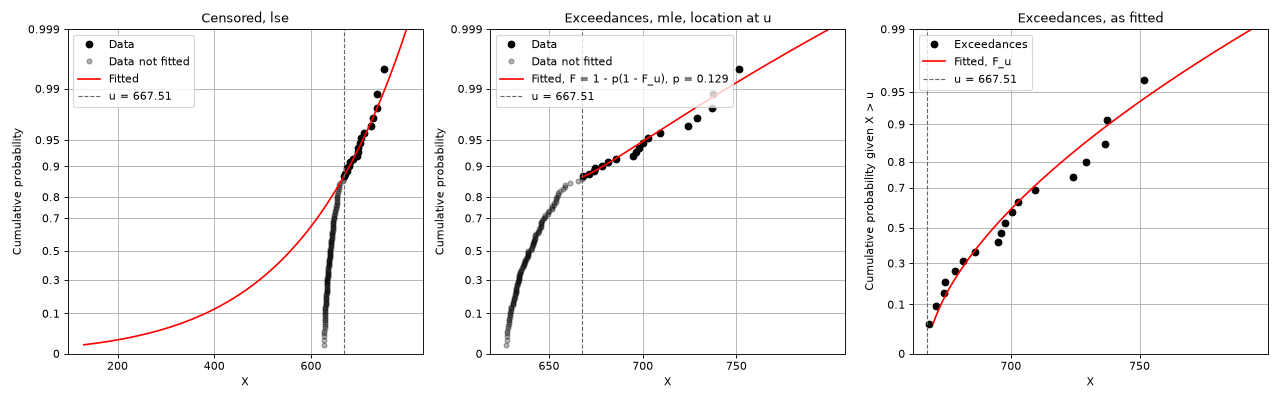
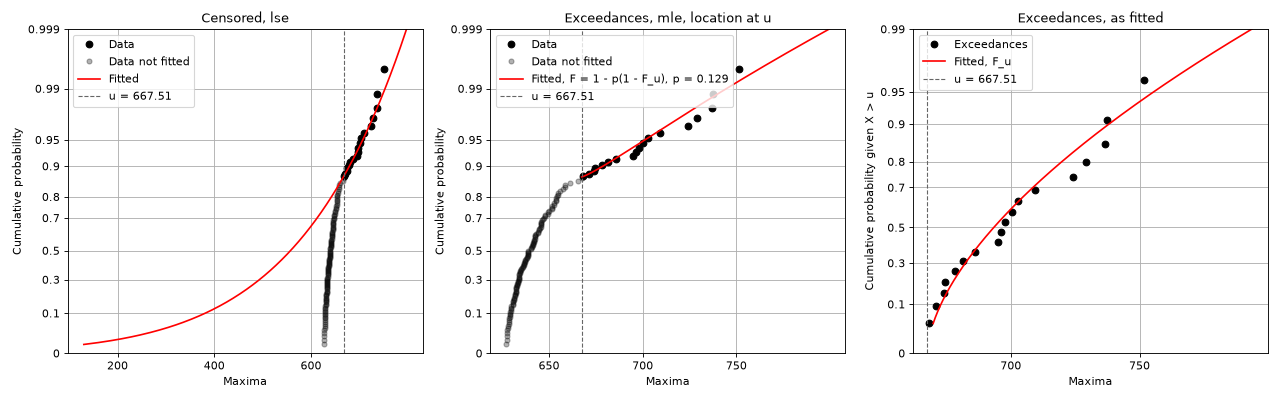
Weibull.plot: Maxima/Minima x label, fit settings as title, is_minima
The x axis is labelled Maxima, or Minima with the new is_minima=, which
draws a fit to the minima multiplied by -1 in the original units, as
TimeSeries.stats fits them. A fitted distribution has the fit settings as
title, the same description as in the GUI.

diff --git a/test/test_weibull.py b/test/test_weibull.py
@@ -10,7 +10,7 @@ from scipy.special import gamma
 
 from qats import TsDB
 from qats._validation import QatsTypeError, QatsValueError
-from qats.stats.empirical import empirical_cdf
+from qats.stats.empirical import empirical_cdf, tail_threshold
 from qats.stats.paper import probability_paper
 from qats.stats.weibull import Weibull, lse, mle, msm, plot_fit, pwm, pwm2, weibull2gumbel
 
@@ -585,8 +585,9 @@ class WeibullPlotTestCases(unittest.TestCase):
         np.testing.assert_allclose(data.get_ydata(), empirical_cdf(self.x.size, kind="mean"), rtol=1e-14)
         np.testing.assert_allclose(line.get_ydata(), w.cdf(line.get_xdata()), rtol=1e-9, atol=1e-12)
         self.assertEqual(dashed, [])
-        self.assertEqual(ax.get_xlabel(), "X")
+        self.assertEqual(ax.get_xlabel(), "Maxima")
         self.assertEqual(ax.get_ylabel(), "Cumulative probability")
+        self.assertEqual(ax.get_title(), "Weibull fit: msm, all maxima, location fitted; mean plotting positions")
 
     def test_ax(self):
         ax = self.axes()
@@ -676,6 +677,61 @@ class WeibullPlotTestCases(unittest.TestCase):
                 w.plot(ax=self.axes(), view="exceedances")
         with self.assertRaises(ValueError):
             Weibull.fit(self.x, method="msm").plot(ax=self.axes(), view="tail")
+
+    def test_title(self):
+        # the fit settings, as in the GUI
+        u = tail_threshold(self.x, 0.2)
+        for w, expected in (
+            (
+                Weibull.fit(self.x, method="lse", tail=0.2),
+                "Weibull fit: lse, the 20 % largest maxima, censored, location fitted; median plotting positions",
+            ),
+            (
+                Weibull.fit(self.x, method="mle", tail=0.2, tail_model="exceedances", loc=u),
+                "Weibull fit: mle, the 20 % largest maxima, exceedances, location at u; median plotting positions",
+            ),
+            (
+                Weibull.fit(self.x, method="mle", loc=100.0),
+                "Weibull fit: mle, all maxima, location 100; median plotting positions",
+            ),
+        ):
+            with self.subTest(expected=expected):
+                ax = w.plot(paper="rayleigh", kind="median", ax=self.axes())
+                self.assertEqual(ax.get_title(), expected)
+        self.assertEqual(Weibull(1.0, 2.0, 1.5).plot(ax=self.axes()).get_title(), "")  # not fitted
+
+    def test_minima(self):
+        # a fit to the minima multiplied by -1, drawn in the original units as probability_paper draws it
+        minima = -self.x
+        for kwargs, view, ylabel in (
+            (dict(method="lse", tail=0.2), None, "Cumulative probability"),
+            (dict(method="msm", tail=0.2, tail_model="exceedances"), None, "Cumulative probability given X < u"),
+            (dict(method="msm", tail=0.2, tail_model="exceedances"), "full-sample", "Cumulative probability"),
+        ):
+            with self.subTest(view=view, **kwargs):
+                w = Weibull.fit(-minima, **kwargs)
+                ax = w.plot(paper="rayleigh", kind="median", ax=self.axes(), view=view, is_minima=True)
+                p = probability_paper(
+                    minima,
+                    w,
+                    paper="rayleigh",
+                    kind="median",
+                    tail=0.2,
+                    tail_model=kwargs.get("tail_model", "censored"),
+                    view=view,
+                    is_minima=True,
+                )
+                points, (line,), (u,) = self.lines(ax)
+                np.testing.assert_array_equal(points[0].get_xdata(), p.x[p.fitted])
+                np.testing.assert_array_equal(line.get_xdata(), p.fit_x)
+                self.assertEqual([t.get_text() for t in ax.get_xticklabels()], p.xticklabels)
+                self.assertEqual(ax.get_xlabel(), "Minima")
+                self.assertEqual(ax.get_ylabel(), ylabel)
+                self.assertIn("the 20 % lowest minima", ax.get_title())
+                # u in the original units in the legend, at the threshold value of the minima multiplied by -1
+                self.assertEqual(u.get_xdata()[0], w.fit_info["threshold"])
+                labels = [t.get_text() for t in ax.get_legend().get_texts()]
+                self.assertIn(f"u = {-w.fit_info['threshold']:.5g}", labels)
 
     def test_no_data(self):
         w = Weibull(1.0, 2.0, 1.5)

diff --git a/qats/stats/weibull.py b/qats/stats/weibull.py
@@ -602,16 +602,17 @@ class Weibull(object):
         )
         return p
 
-    def plot(self, filename=None, *, paper=None, kind=None, ax=None, view=None):
+    def plot(self, filename=None, *, paper=None, kind=None, ax=None, view=None, is_minima=False):
         """
         Plot the distribution and the sample it was fitted to on probability paper
 
         .. versionchanged :: 5.6.0
-            New arguments `paper`, `kind`, `ax` and `view`, and the axes are returned. The plot is drawn with
-            :func:`qats.stats.paper.probability_paper`, and shows a tail fit as :attr:`fit_info` describes it: the
-            values outside the fit faded, and the threshold value u dashed. With the default arguments the data and
-            the fitted distribution are drawn as before, but the fitted line spans the probability axis, from the
-            lowest data point to the top tick.
+            New arguments `paper`, `kind`, `ax`, `view` and `is_minima`, and the axes are returned. The plot is
+            drawn with :func:`qats.stats.paper.probability_paper`, and shows a tail fit as :attr:`fit_info` describes
+            it: the values outside the fit faded, and the threshold value u dashed. With the default arguments the data
+            and the fitted distribution are drawn as before, but the fitted line spans the probability axis, from the
+            lowest data point to the top tick. The x axis is labelled 'Maxima' or 'Minima', and a fitted
+            distribution has the fit settings as title.
 
         Parameters
         ----------
@@ -631,6 +632,10 @@ class Weibull(object):
             exceeding u; or 'full-sample', with the full sample and the fitted distribution solved for the full
             sample, ``F = 1 - p (1 - F_u)``. Any other fit is drawn with the full sample. See the Notes of
             :func:`qats.stats.paper.probability_paper` for both views and their equations.
+        is_minima : bool, optional
+            The distribution is fitted to minima multiplied by -1, as by :meth:`qats.TimeSeries.stats` with
+            ``is_minima=True``, and `data` are those values. The minima are drawn in their original units, and the x
+            axis is labelled 'Minima' instead of 'Maxima'.
 
         Returns
         -------
@@ -668,9 +673,31 @@ class Weibull(object):
         >>> w = Weibull.fit(maxima, method="mle", tail=0.2, tail_model="exceedances")
         >>> w.plot(paper="rayleigh", kind="median", view="full-sample")
 
+        Plot a fit to the 20% lowest minima, fitted as the largest of the minima multiplied by -1
+
+        >>> Weibull.fit(-minima, method="lse", tail=0.2).plot(paper="rayleigh", kind="median", is_minima=True)
+
         """
+        kind = "mean" if kind is None else kind
+        title = None
+        info = self._fit_info
+        if info is not None:
+            # the fit settings, as described in the GUI
+            loc = None
+            if info["loc_from"] == "value":
+                loc = "threshold" if info["threshold"] is not None and self.loc == info["threshold"] else self.loc
+            fit = dict(method=info["method"], tail=info["tail"], tail_model=info["tail_model"] or "censored", loc=loc)
+            title = _fit_description(fit, kind, minima=is_minima)
         return _plot_distribution(
-            self, filename, "linear" if paper is None else paper, "mean" if kind is None else kind, ax, view=view
+            self,
+            filename,
+            "linear" if paper is None else paper,
+            kind,
+            ax,
+            view=view,
+            is_minima=is_minima,
+            xlabel="Minima" if is_minima else "Maxima",
+            title=title,
         )
 
     def plot_linear(self, filename=None):

diff --git a/qats/stats/paper.py b/qats/stats/paper.py
@@ -482,7 +482,7 @@ def _format(v):
     return f"{v + 0.0:g}"
 
 
-def _plot_distribution(distribution, filename, paper, kind, ax, view=None):
+def _plot_distribution(distribution, filename, paper, kind, ax, view=None, *, is_minima=False, xlabel="X", title=None):
     """
     Draw a fitted distribution and the sample it was fitted to on probability paper.
 
@@ -503,6 +503,13 @@ def _plot_distribution(distribution, filename, paper, kind, ax, view=None):
         Axes to draw on. None draws on a new figure.
     view : {'exceedances', 'full-sample'}, optional
         How a fit to the exceedances is drawn, default 'exceedances', see :func:`probability_paper`.
+    is_minima : bool, optional
+        The distribution is fitted to minima multiplied by -1, and its `data` are those values. The minima are drawn
+        in their original units, see :func:`probability_paper`.
+    xlabel : str, optional
+        Label of the x axis.
+    title : str, optional
+        Title of the axes, in a small font.
 
     Returns
     -------
@@ -525,14 +532,16 @@ def _plot_distribution(distribution, filename, paper, kind, ax, view=None):
     tail = info.get("tail")
     u = info.get("threshold")
     tail_model = info.get("tail_model") or "censored"
+    sign = -1.0 if is_minima else 1.0
     p = probability_paper(
-        distribution.data,
+        None if distribution.data is None else sign * np.asarray(distribution.data),
         distribution,
         paper=paper,
         kind=kind,
         tail=tail,
         tail_model=tail_model,
         view=view,
+        is_minima=is_minima,
     )
 
     # labels: a fit to the exceedances is labelled by what the line is
@@ -540,7 +549,7 @@ def _plot_distribution(distribution, filename, paper, kind, ax, view=None):
     if tail_model == "exceedances" and u is not None:
         if p.view == "exceedances":
             data_label, fit_label = "Exceedances", "Fitted, F_u"
-            ylabel = "Cumulative probability given X > u"
+            ylabel = f"Cumulative probability given {'X < u' if is_minima else 'X > u'}"
         else:
             frac = np.count_nonzero(p.fitted) / (p.sample.size + p.excluded.size)
             fit_label = f"Fitted, F = 1 - p(1 - F_u), p = {frac:.3g}"
@@ -558,13 +567,15 @@ def _plot_distribution(distribution, filename, paper, kind, ax, view=None):
     if u is not None:
         xu = float(_paper_x(u, paper, p.loc))
         if np.isfinite(xu):
-            ax.axvline(xu, color="0.4", linestyle="--", linewidth=1.0, label=f"u = {u:.5g}")
+            ax.axvline(xu, color="0.4", linestyle="--", linewidth=1.0, label=f"u = {sign * u:.5g}")
 
     ax.set_xticks(p.xticks, p.xticklabels)
     ax.set_yticks(p.yticks, p.yticklabels)
     ax.set_ylim(p.yticks[0], p.yticks[-1])
-    ax.set_xlabel("X")
+    ax.set_xlabel(xlabel)
     ax.set_ylabel(ylabel)
+    if title is not None:
+        ax.set_title(title, fontsize="small")
     ax.legend(loc="upper left")
     ax.grid(True)
 
